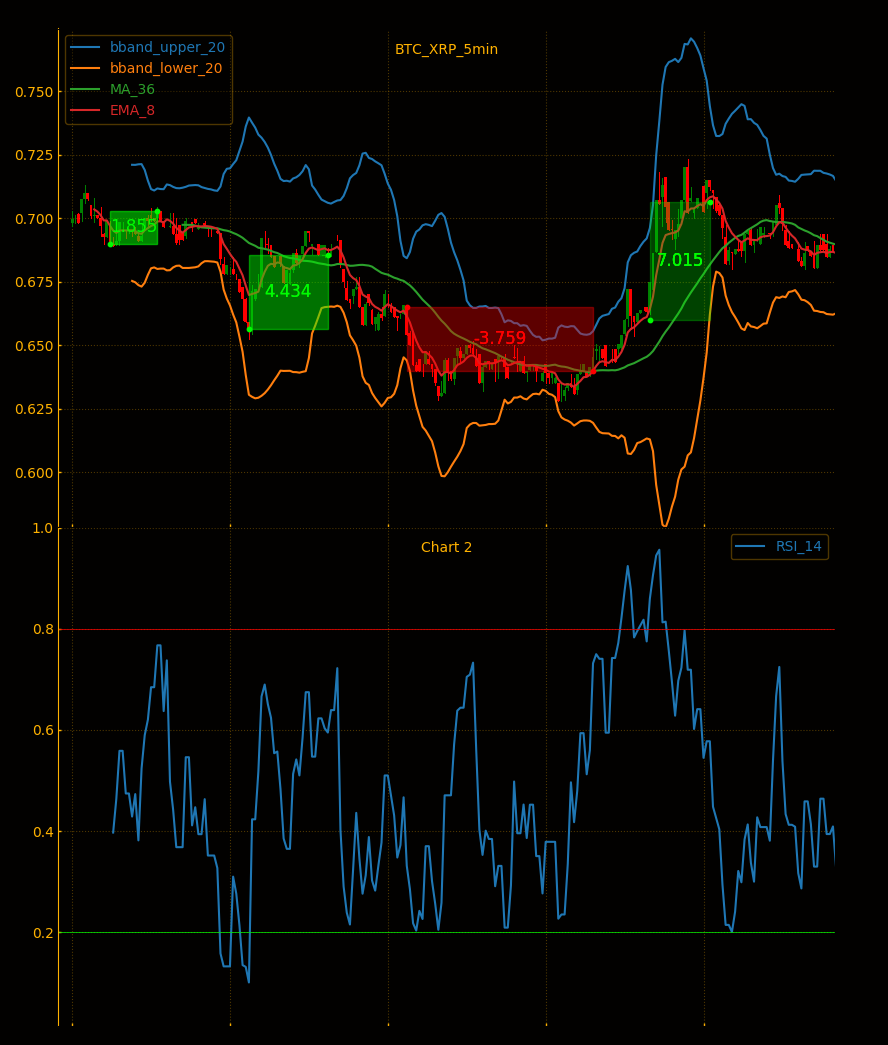
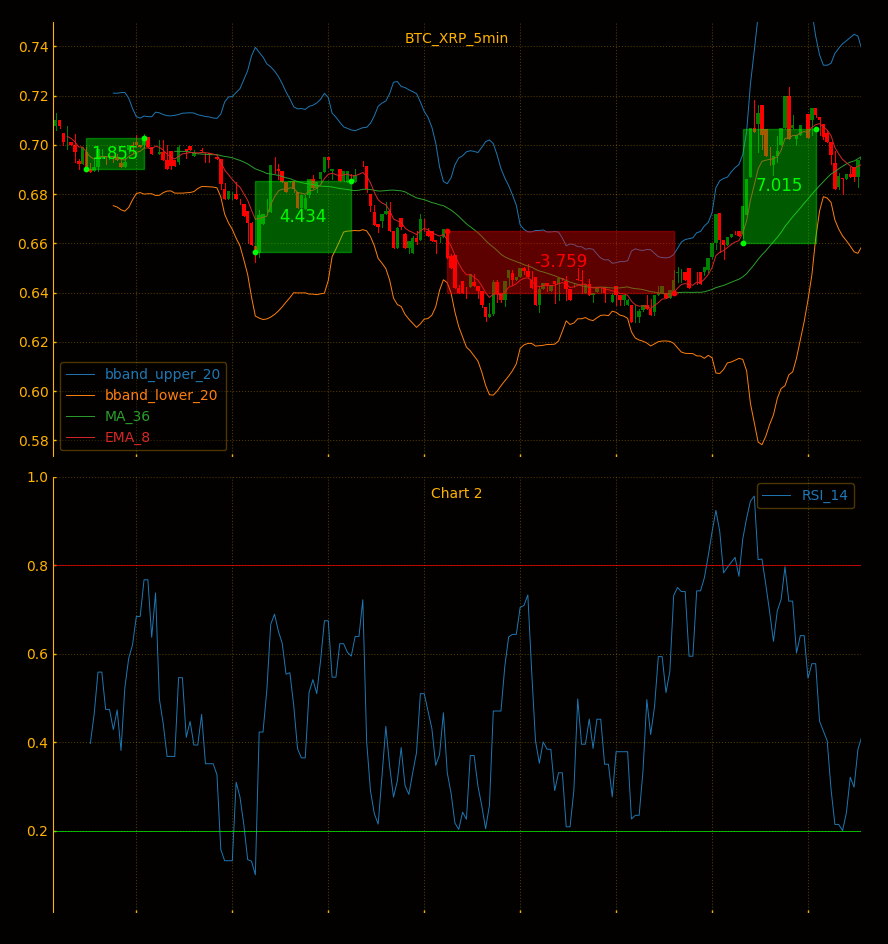
Update

diff --git a/signal_evaluation.py b/signal_evaluation.py
@@ -45,7 +45,6 @@ def draw_signal_evaluation(axis, data, signals, **kwargs):
     # http://matthiaseisen.com/pp/patterns/p0203/
 
     eval_type = kwargs.get('eval_type', 'rectangle')
-
     red = kwargs.get('red', 'red')
     green = kwargs.get('green', 'green')
 
@@ -89,53 +88,52 @@ def draw_signal_evaluation(axis, data, signals, **kwargs):
             green_dots_x.append(x + w)
             green_dots_y.append(y + h)
 
-        if eval_type is 'rectangle':
-            objects.append(
-                patches.Rectangle(
-                    (x, y), w, h,
-                    facecolor=color,
-                    edgecolor=color,
-                    linewidth=1,
-                    # linestyle='dotted',
-                    fill=True,
-                    alpha=0.14
-                )
-            )
-        elif eval_type is 'arrow_1':
-            objects.append(
-                patches.FancyArrowPatch(
+        if eval_type is 'arrow_1':
+            patch = patches.FancyArrowPatch(
                     (x, y), (x + w, y + h),
                     arrowstyle='-|>',
                     mutation_scale=20,
                     color=color
                 )
+
+        # eval_type is 'rectangle'
+        else:
+            patch = patches.Rectangle(
+                (x, y), w, h,
+                facecolor=color,
+                edgecolor=color,
+                linewidth=1,
+                # linestyle='dotted',
+                fill=True,
+                alpha=0.2
             )
 
-        # Add annotation ---------------------------
-        for r in objects:
-            ax.add_artist(r)
-            cx = x + w / 2.0
-            cy = y + h / 2.0
-            change = round(h / y * 100, 3)
+        objects.append(patch)
 
-            if eval_type is 'arrow_1':
-                bbox = {
-                    'facecolor': color,
-                    'edgecolor': color,
-                    'alpha': 0.3,
-                    'pad': 2
-                }
-            else:
-                bbox = None
+        # Add annotation -----------------------
+        ax.add_artist(patch)
+        cx = x + w / 2.0
+        cy = y + h / 2.0
+        change = round(h / y * 100, 3)
 
-            ax.annotate(
-                str(change), (cx, cy),
-                color=color,
-                fontsize=12, ha='center',
-                va='center',
-                bbox=bbox,
-                zorder=100
-            )
+        if eval_type is 'arrow_1':
+            bbox = {
+                'facecolor': color,
+                'edgecolor': color,
+                'alpha': 0.3,
+                'pad': 2
+            }
+        else:
+            bbox = None
+
+        ax.annotate(
+            str(change), (cx, cy),
+            color=color,
+            fontsize=12, ha='center',
+            va='center',
+            bbox=bbox,
+            zorder=100
+        )
 
     # Add dots
     if kwargs.get('dots', True):

diff --git a/mpl_finance_ext.py b/mpl_finance_ext.py
@@ -109,7 +109,7 @@ def _tail(fig, ax, data, plot_columns, kwa):
     if plot_columns is not None:
         for col in plot_columns:
             series = data[col]
-            ax.plot(series)
+            ax.plot(series, linewidth=0.7)
             add_price_flag(
                 fig=fig, axis=ax,
                 series=data[col],

diff --git a/README.md b/README.md
@@ -105,6 +105,12 @@ The result looks like this:
 
 ![](https://github.com/z33pX/mpl_finance_ext/blob/master/pic_01.png)
 
+You can see that the signals are visualised in form of rectangles.
+Instead of rectangles you can activate arrows with `evaluation='arrow_1'`.
+It will look like this:
+
+![](https://github.com/z33pX/mpl_finance_ext/blob/master/pic_03.png)
+
 For further explanations for the parameters please look into the function description. 
 
 
